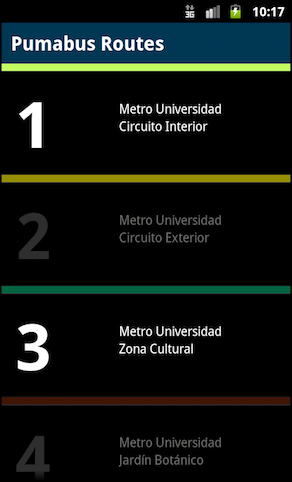
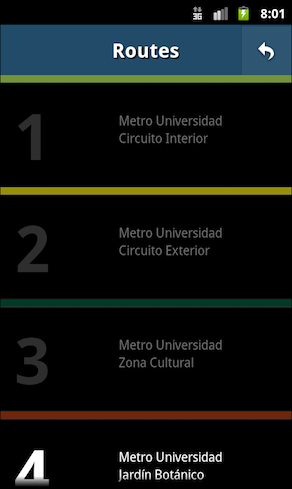
Updated interface images for android section

diff --git a/app/assets/stylesheets/landing_page.css.scss b/app/assets/stylesheets/landing_page.css.scss
@@ -265,13 +265,13 @@ body, html {
 			}
 			
 			div#map_ios {
-				background-image: url('../assets/map_ios.png');
+				background-image: url('../assets/rt_ios.png');
 				width: 322px;
-				height: 481px;
+				height: 482px;
 			}
 			
 			div#real-time_ios {
-				background-image: url('../assets/rt_ios.png');
+				background-image: url('../assets/map_ios.png');
 				width: 322px;
 				height: 480px;
 			}
@@ -293,31 +293,31 @@ body, html {
 			div#routes_android {
 				background-image: url('../assets/routes_android.png');
 				width: 292px;
-				height: 482px;
+				height: 489px;
 			}
 			
 			div#map_android {
-				background-image: url('../assets/map_android.png');
+				background-image: url('../assets/rt_android.png');
 				width: 292px;
-				height: 482px;
+				height: 485px;
 			}
 			
 			div#real-time_android {
-				background-image: url('../assets/rt_android.png');
-				width: 291px;
-				height: 482px;
+				background-image: url('../assets/map_android.png');
+				width: 292px;
+				height: 488px;
 			}
 			
 			div#places_android {
 				background-image: url('../assets/places_android.png');
 				width: 291px;
-				height: 482px;
+				height: 486px;
 			}
 			
 			div#schedules_android {
 				background-image: url('../assets/timetables_android.png');
 				width: 291px;
-				height: 482px;
+				height: 485px;
 			}
 		}
 		
